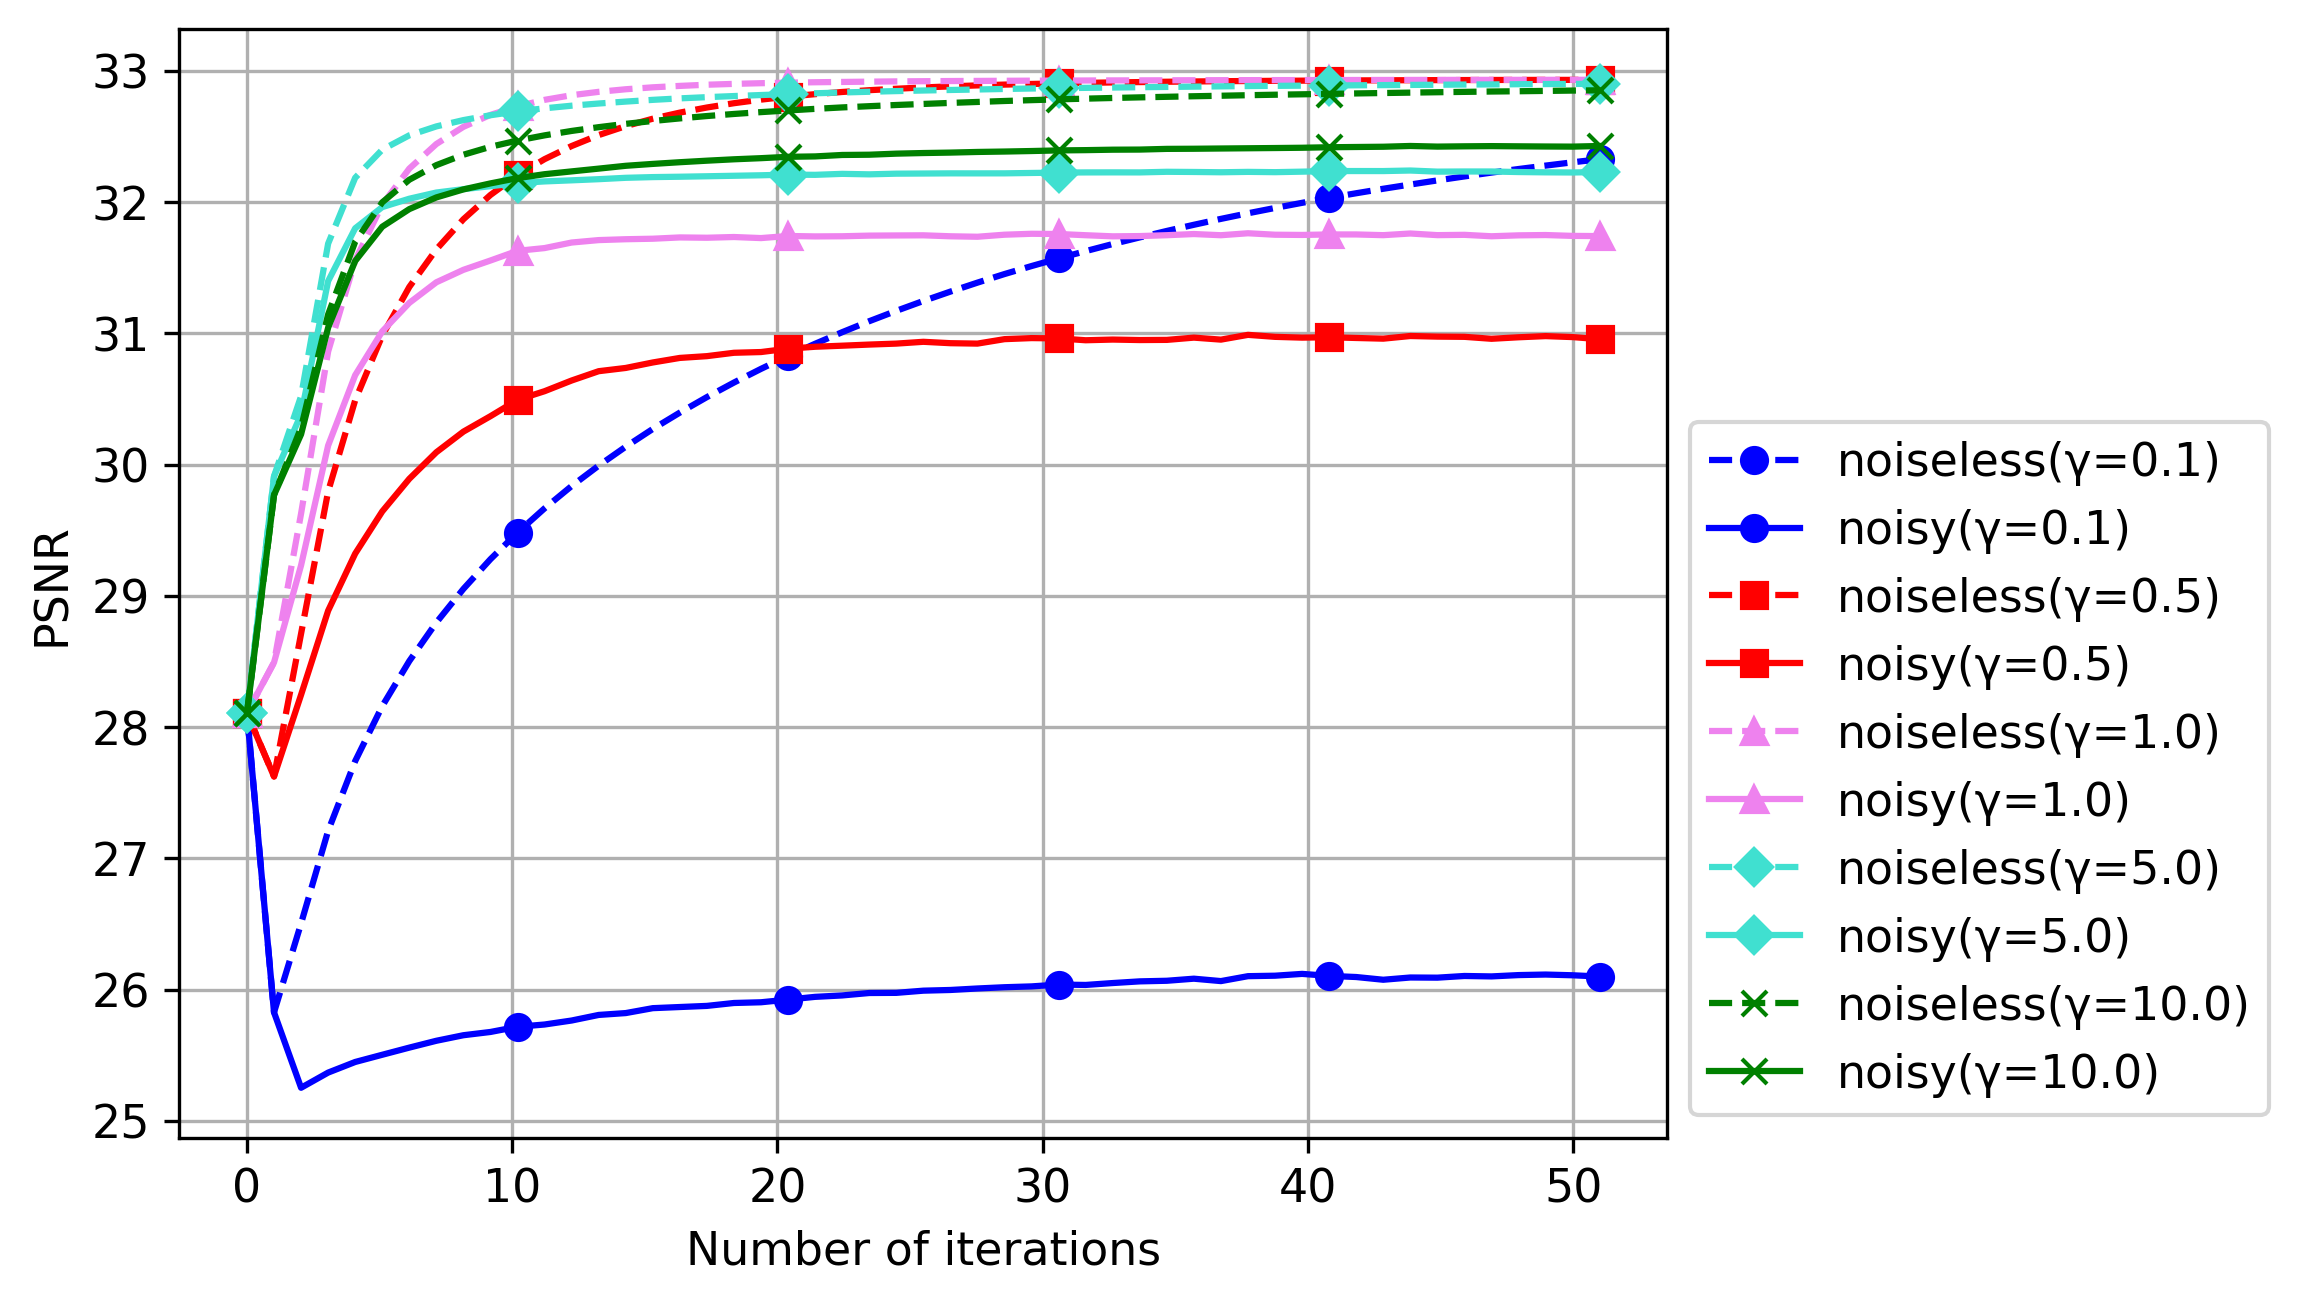
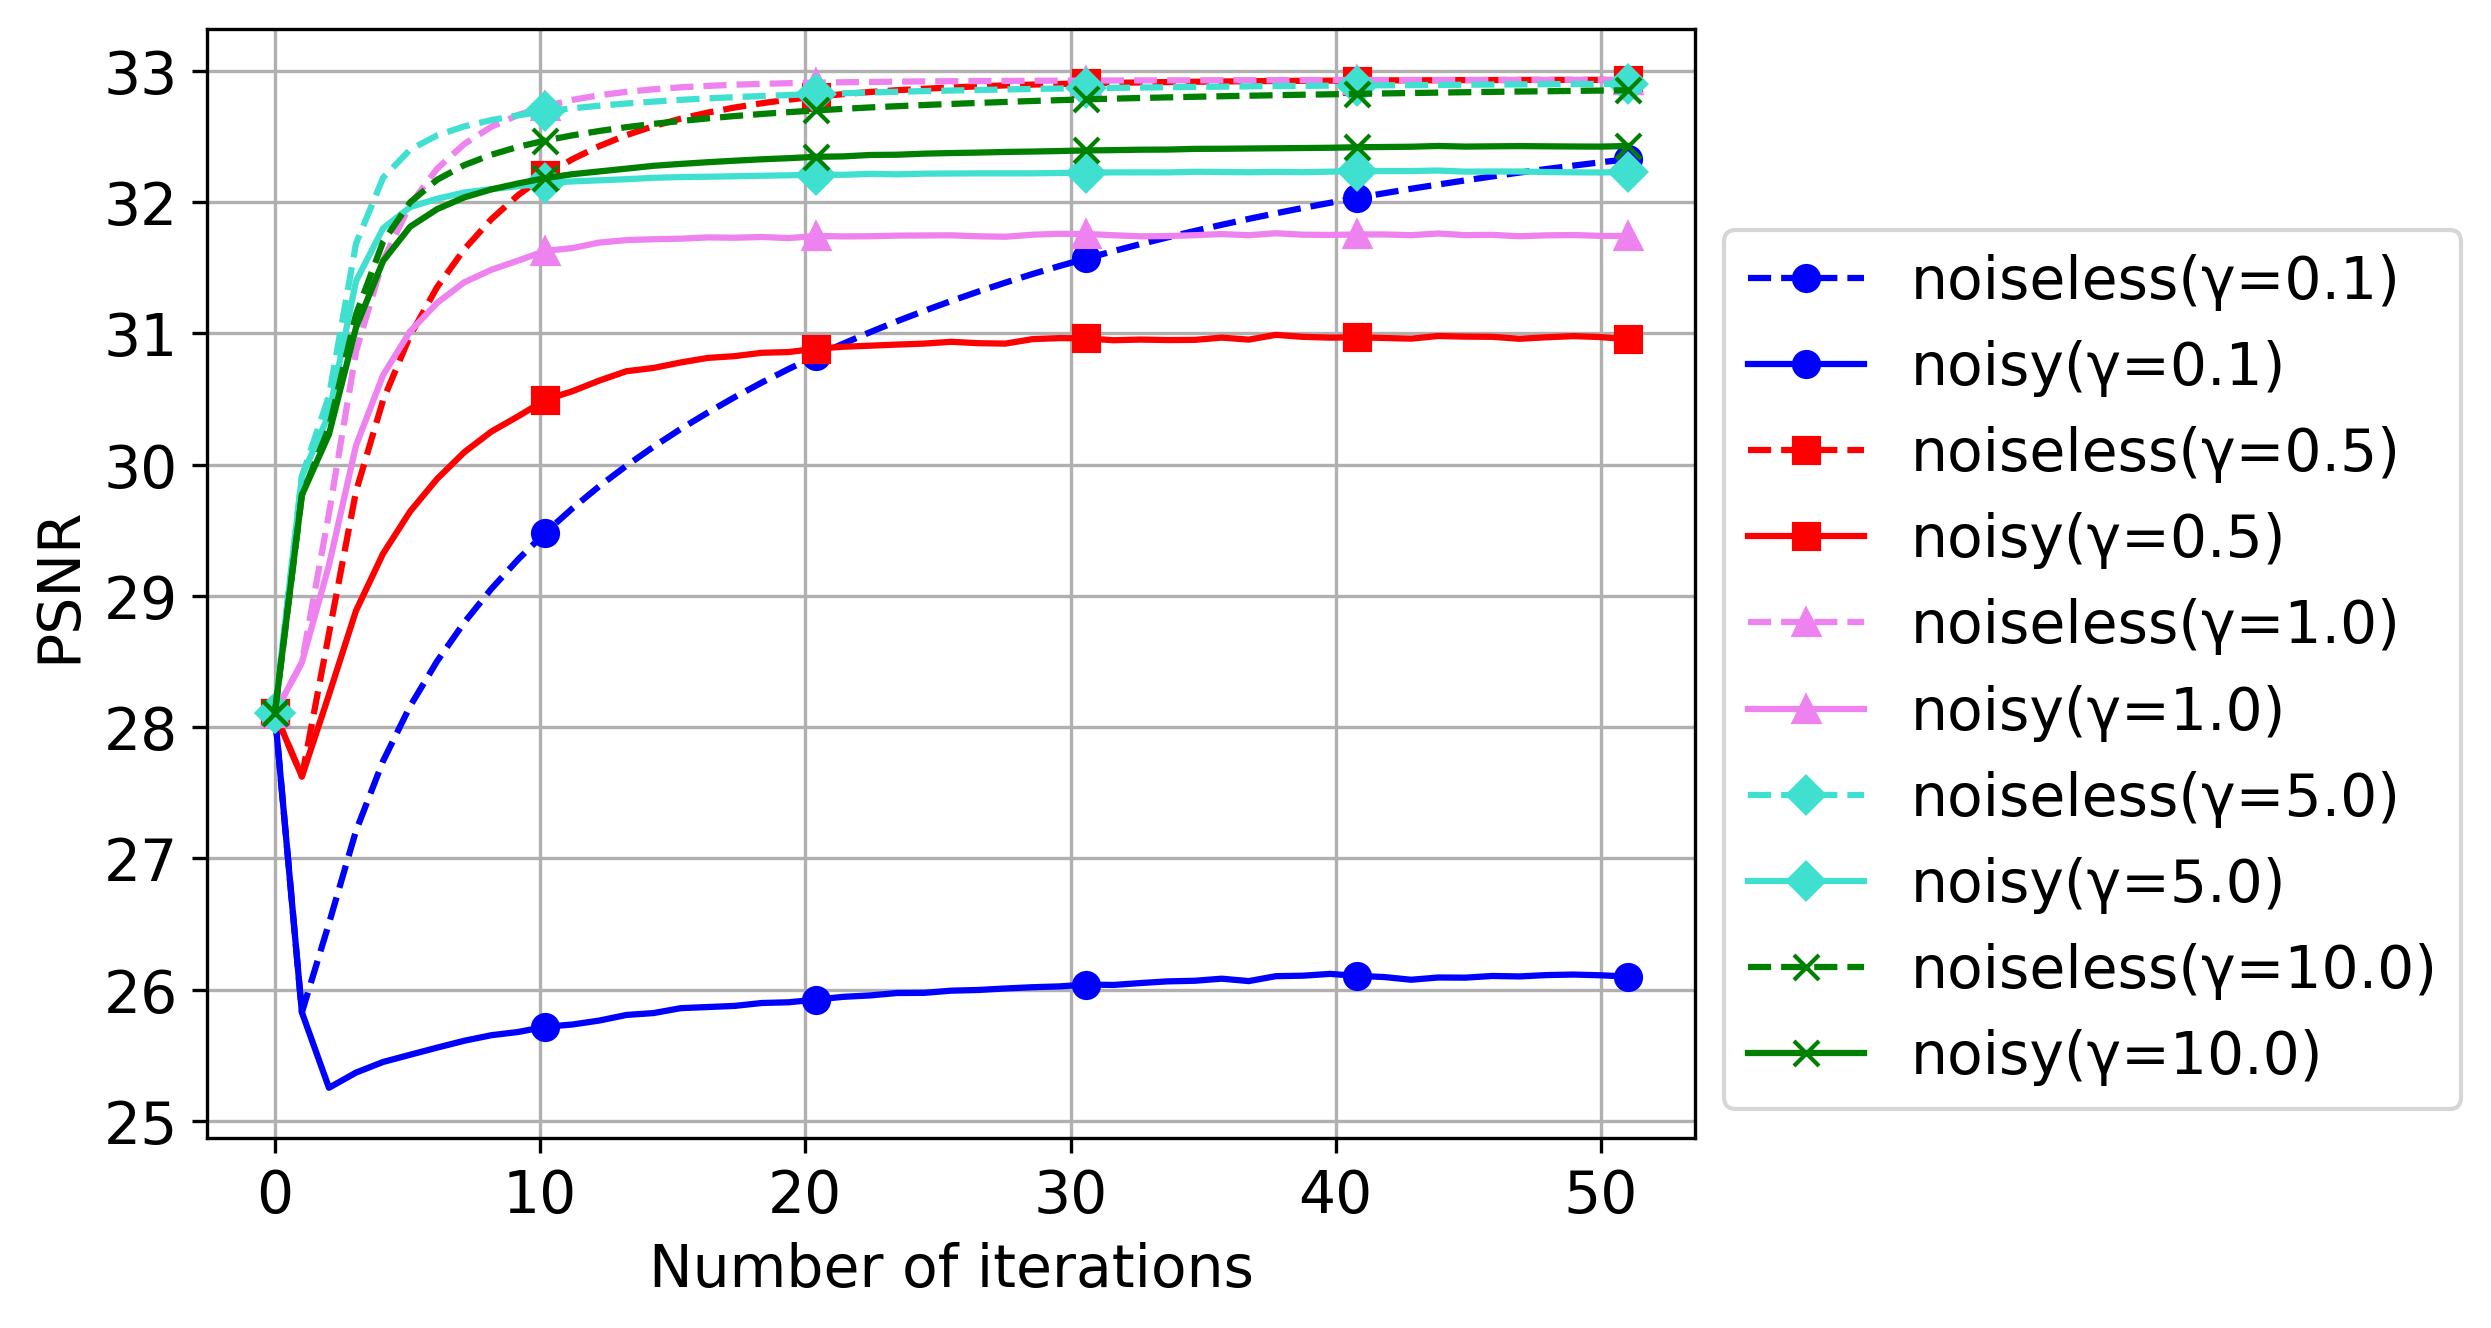
フォントサイズ変更

diff --git a/plot.py b/plot.py
@@ -4,7 +4,7 @@ import cv2
 
 color_array=['blue','red','violet','turquoise','green']
 marker_array = ['o', 's', '^', 'D', 'x']  # 円, 四角, 上三角, ダイヤモンド, バツ
-plt.rcParams["font.size"] = 11
+plt.rcParams["font.size"] = 14
 plt.tight_layout()
 
 gam_num=5
@@ -33,7 +33,7 @@ plt.grid(which='minor')
 plt.xlabel('Number of iterations')
 plt.ylabel('PSNR')
 #plt.xticks([10,20,30,40,50],fontsize=9,color='black')
-plt.legend(loc='lower left', fontsize=11, bbox_to_anchor=(1, 0))
+plt.legend(loc='lower left', fontsize=14, bbox_to_anchor=(1, 0))
 #plt.ylim(21.5,35)
 plt.savefig('PSNR_plot.png', dpi=300, bbox_inches='tight')
 plt.show()
@@ -48,7 +48,7 @@ plt.grid(which='major')
 plt.grid(which='minor')
 plt.xlabel('Number of iterations')
 plt.ylabel('SSIM')
-plt.legend(loc='lower left', fontsize=12, bbox_to_anchor=(1, 0))
+plt.legend(loc='lower left', fontsize=14, bbox_to_anchor=(1, 0))
 #plt.ylim(0.35,0.95)
 plt.savefig('SSIM_plot.png', dpi=300, bbox_inches='tight')
 plt.show()

diff --git a/result.py b/result.py
@@ -1,7 +1,7 @@
 from ADMM_TV import plt,np,EP,PSNR,SSIM,PSNR_noise,SSIM_noise,LAM_array
 
 color_array=['blue','red','violet','turquoise','green']
-plt.rcParams["font.size"] = 11
+plt.rcParams["font.size"] = 14
 plt.tight_layout()
 
 index_array=[0,1,2,3]
@@ -20,7 +20,7 @@ plt.grid(which='minor')
 plt.xlabel('Number of iterations')
 plt.ylabel('PSNR')
 #plt.xticks([10,20,30,40,50],fontsize=9,color='black')
-plt.legend(loc='lower left', fontsize=11, bbox_to_anchor=(1, 0))
+plt.legend(loc='lower left', fontsize=14, bbox_to_anchor=(1, 0))
 #plt.ylim(21.5,35)
 plt.show()
 for i in index_array:
@@ -37,7 +37,7 @@ plt.grid(which='major')
 plt.grid(which='minor')
 plt.xlabel('Number of iterations')
 plt.ylabel('SSIM')
-plt.legend(loc='lower left', fontsize=12, bbox_to_anchor=(1, 0))
+plt.legend(loc='lower left', fontsize=14, bbox_to_anchor=(1, 0))
 #plt.ylim(0.35,0.95)
 plt.show()
 for i in index_array:
